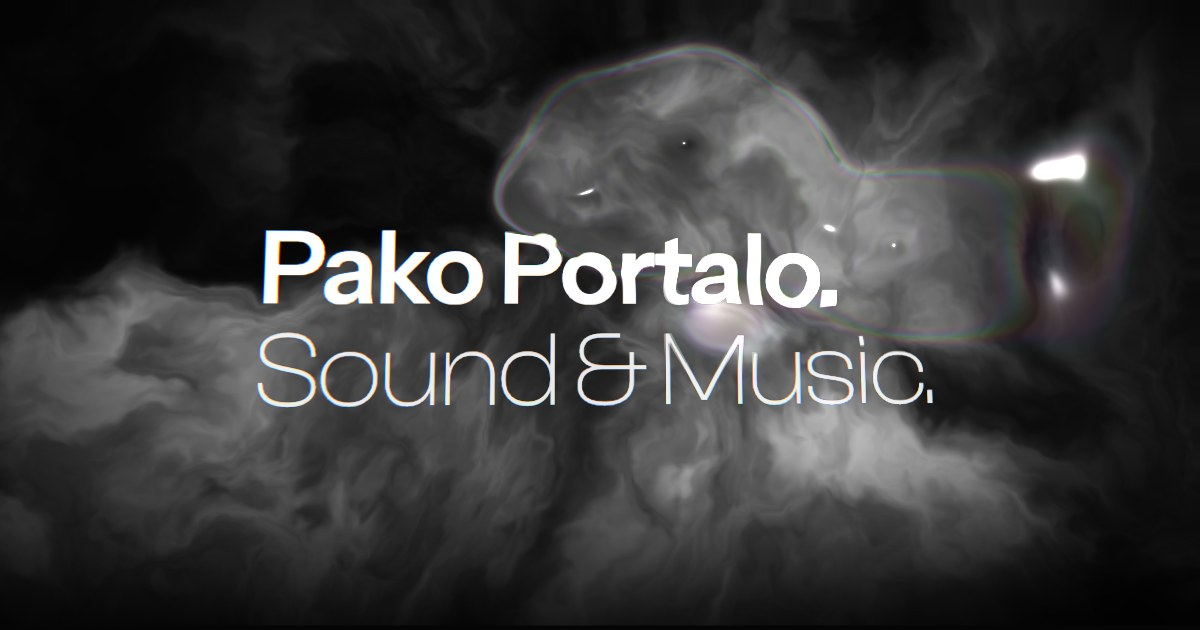
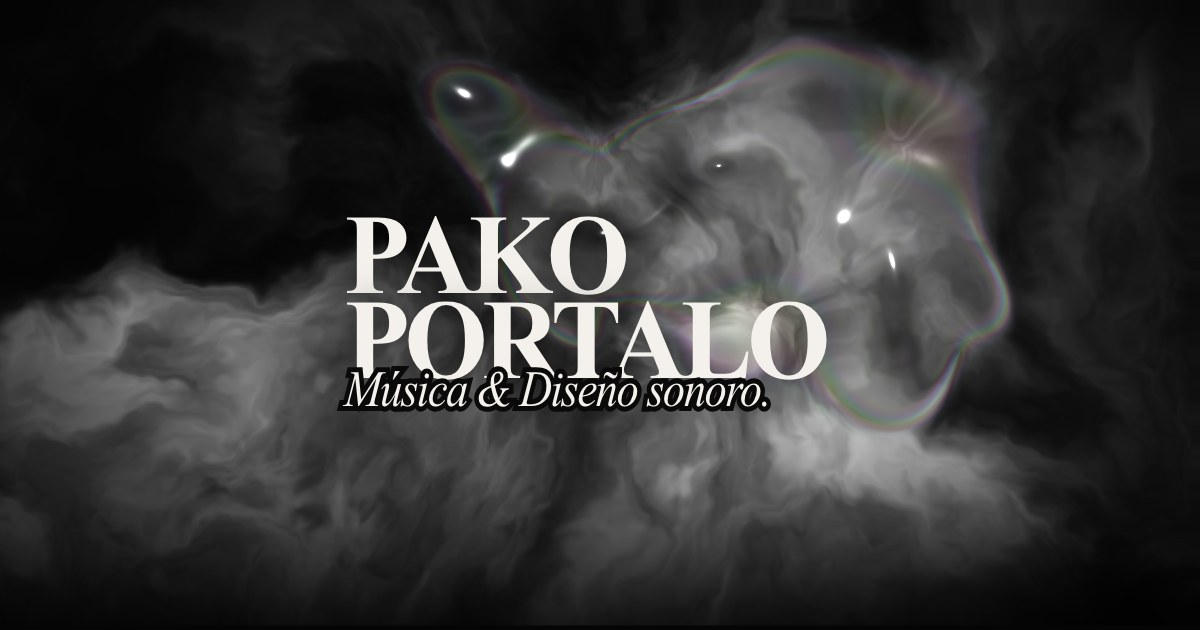
Imagen de compartir: PAKO PORTALO en Times con el lema en cursiva montado, compacta para el recorte del móvil; la versión apaisada se guarda aparte

Changed region(s): [[0.2158, 0.0302, 0.9558, 0.6937], [0.555, 0.2111, 0.6475, 0.3016], [0.6783, 0.3317, 0.7092, 0.3619]]

diff --git a/src/scripts/liquid/hero.ts b/src/scripts/liquid/hero.ts
@@ -633,7 +633,7 @@ export async function createLiquidHero(
       textContext.font = `${titleFont.titleWeight} ${bigSize}px ${titleStack}`;
       textContext.letterSpacing = `${bigSize * titleFont.tracking}px`;
     }
-    if (soloTitulo) {
+    if (soloTitulo && copy.title) {
       // El bloque, a lo ancho de la mitad central de la imagen.
       const subStack = `${subtitleFont.family}, ui-sans-serif, system-ui, sans-serif`;
       const medir = (size: number) => {
